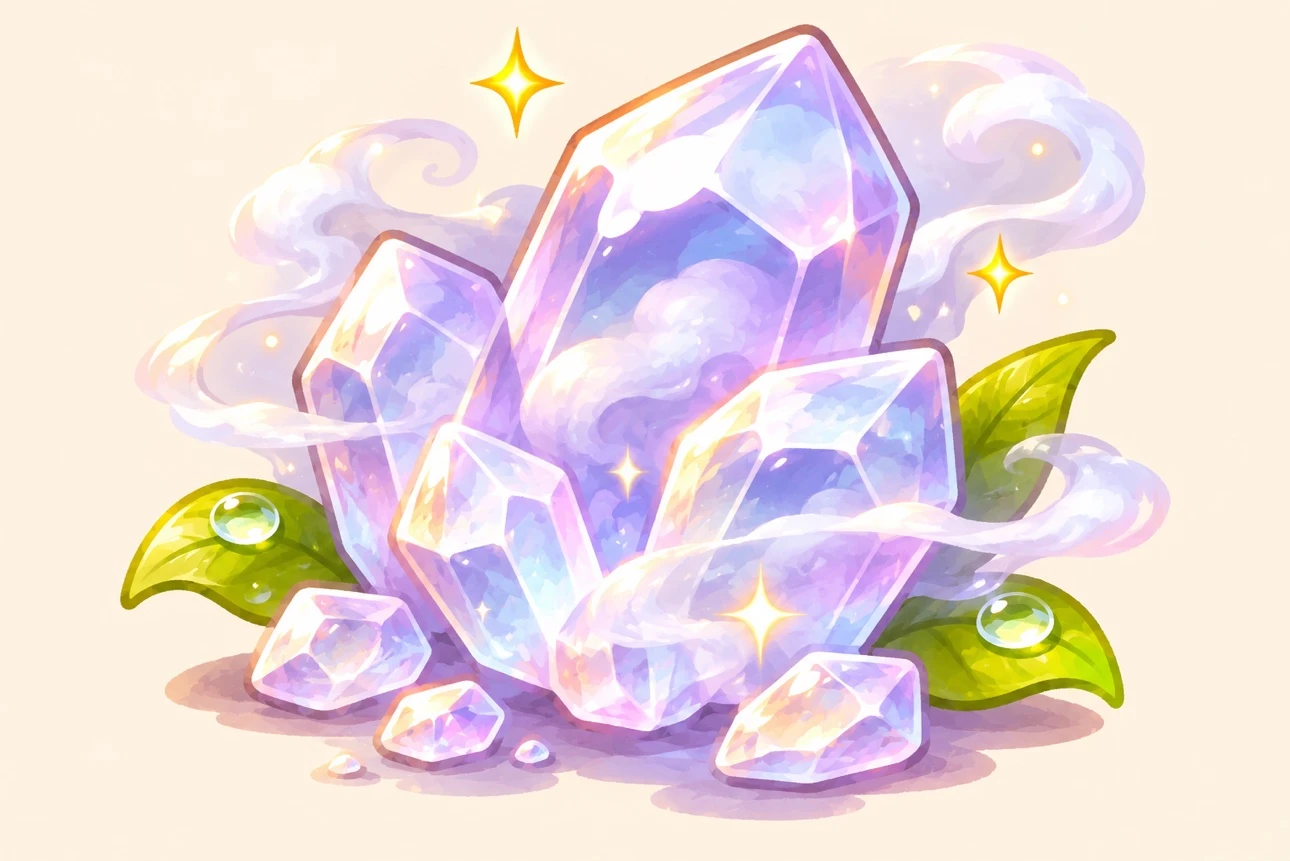
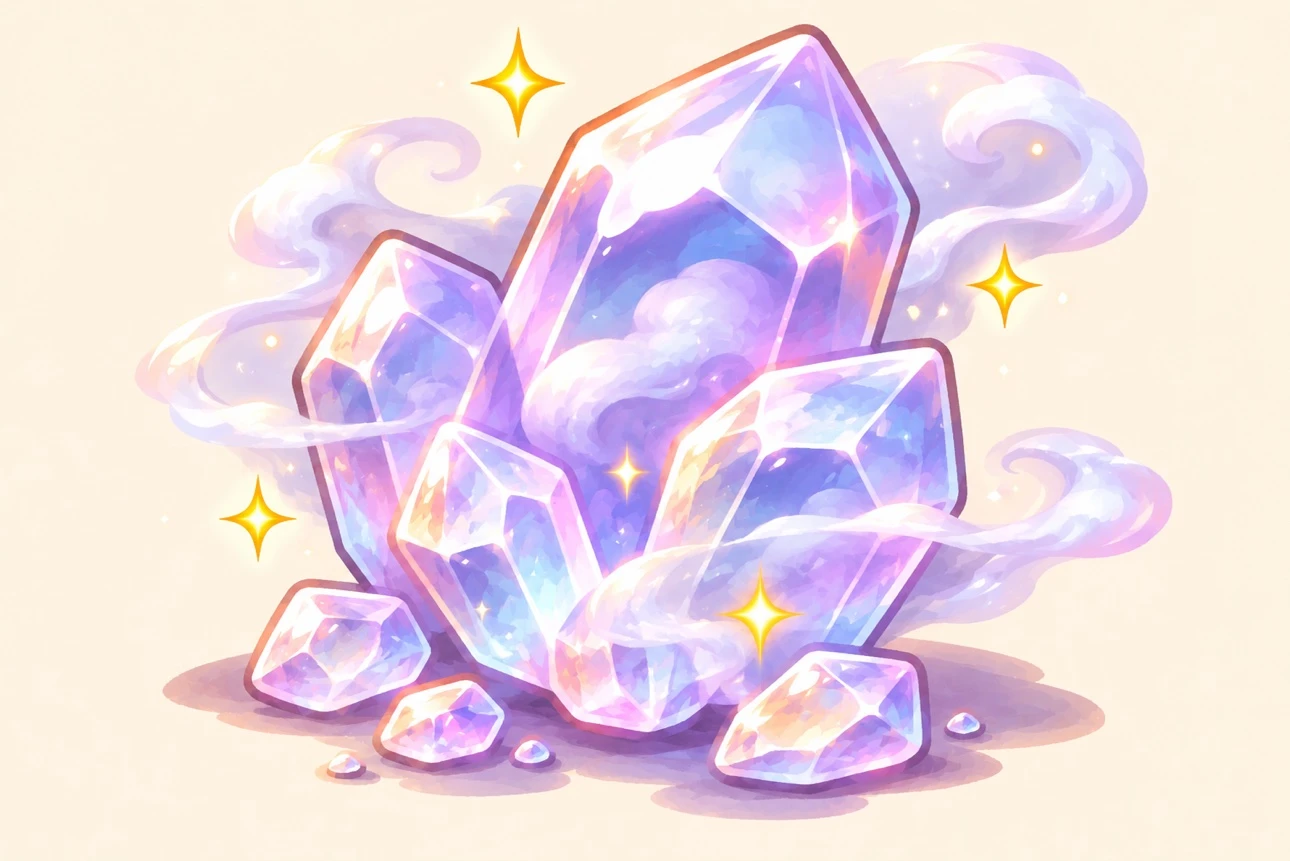
Use leaf-free mat_007 version; record no-leaf-garnish rule in direction pack

diff --git a/docs/visual_production_plan.md b/docs/visual_production_plan.md
@@ -15,7 +15,7 @@
 
 | ID | 名前 | 状態 | 備考 |
 |---|---|---|---|
-| mat_007 | 霧結晶 | ポコ生成v3見本で制作済み → **新テイスト版に差し替え済み（2026-11-19、バッチR-7、GPT作画・ポコQA採用、site/assets/items/mat_007.webp）** | 結晶の中と周囲に霧が渦巻く表現で採用 |
+| mat_007 | 霧結晶 | ポコ生成v3見本で制作済み → **新テイスト版に差し替え済み（2026-11-19、バッチR-7、GPT作画・ポコQA採用、site/assets/items/mat_007.webp）** | 葉の添え物を消した版で最終採用。今後の方針：葉の添え物は基本なし（共通指示文に明記） |
 | mat_001 | しずく草 | 制作済み（2026-11-19、GPT作画・ポコQA採用）→ **新テイスト版に差し替え済み（2026-11-19、バッチR-1）** | 新テイスト版では花は小さな白花に変更（画風上のデザインとして採用） |
 | mat_002 | コルク樹皮 | 制作済み（2026-11-19、GPT作画・ポコQA採用）→ **新テイスト版に差し替え済み（2026-11-19、バッチR-2）** | 新テイスト版では苔なし、葉の添え物のみ |
 | mat_003 | くるり丸石 | 制作済み（2026-11-19、GPT作画・ポコQA採用）→ **新テイスト版に差し替え済み（2026-11-19、バッチR-3）** | 石2個＋葉の添えで採用 |

diff --git a/docs/gpt_direction_pack.md b/docs/gpt_direction_pack.md
@@ -42,6 +42,7 @@
 
 
 ・描くのは指定したアイテム単品のみ。中央に大きく配置する
+・葉っぱなどの添え物は基本的に入れない（素材そのものの一部である場合だけ可。2026-11-19 に Fuu と合意：鉱物・結晶などにまで葉が付くと主役が薄れるため）
 ・背景は無地のクリーム色のみ。風景、建物、人物、他のアイテムは描かない
 ・画像の中に文字、ロゴ、署名、枠、リボン、カードなどの装飾を一切入れない
 ・羊皮紙カードや名前リボンなどの「図鑑画面」の装飾は後でこちらで付けるので、絵には含めない
